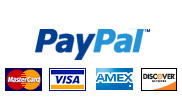
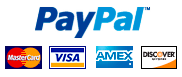
F #3: Frontend Transaction Completed Page, F #2: Frontend Transaction Checkout Page

diff --git a/app/assets/stylesheets/frontend/style.css.sass b/app/assets/stylesheets/frontend/style.css.sass
@@ -192,7 +192,9 @@ h1.page-title
         display: block
     &.visa
       label
-        padding: 0
+        margin-top: 1px
+        vertical-align: middle
+        padding: 10px 35px !important
       img
         width: 140px
     label
@@ -223,7 +225,8 @@ h1.page-title
       li:before
         content: '-'
         margin-right: 5px
-
+    div
+      display: none
 .button-default
   background-color: #05a95a
   border: 1px solid #a3a3a3
@@ -910,6 +913,18 @@ body
       margin-left: 8px
       margin-top: 0
       padding: 6px 15px
+
+#complete_page
+  .complete_page_title
+    font-size: 22px
+    font-weight: bold
+    margin-bottom: 10px
+  h1.page-title.complete_order_info_title
+    border: 1px solid rgba(221, 221, 221, 0.55)
+    margin: 1px auto 10px
+    padding: 10px 19px
+
+
 
 #product_details_tab
   margin-top: 40px

diff --git a/app/assets/stylesheets/plugins/helpers.css.sass b/app/assets/stylesheets/plugins/helpers.css.sass
@@ -1,4 +1,4 @@
-$distances: 0 5 10 15 20 25 30 35
+$distances: 0 5 10 15 20 25 30 35 40 45 50
 $directions: top right bottom left
 
 @each $direction in $directions
